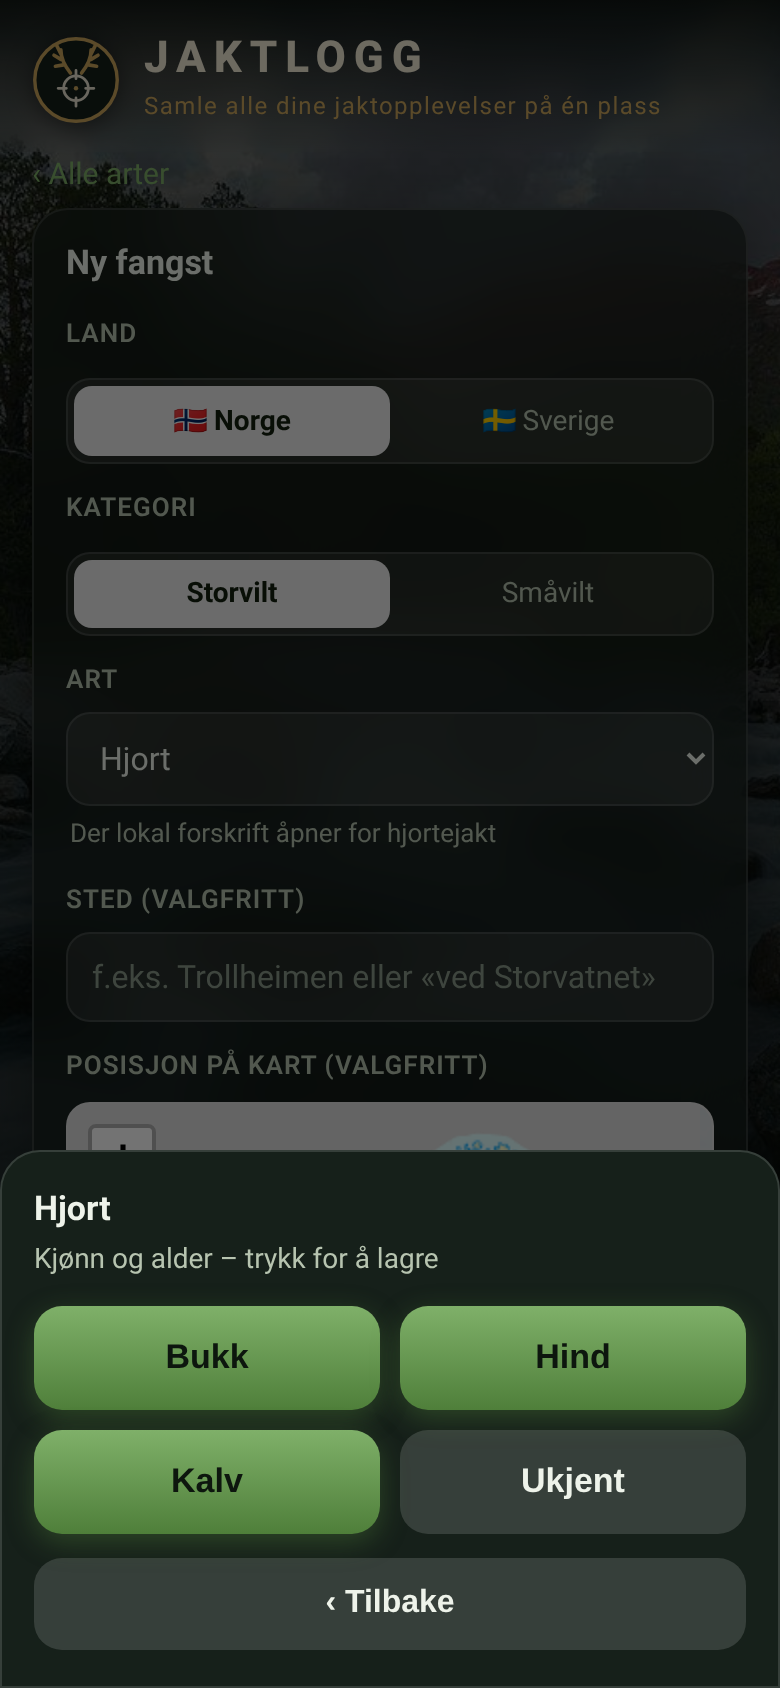
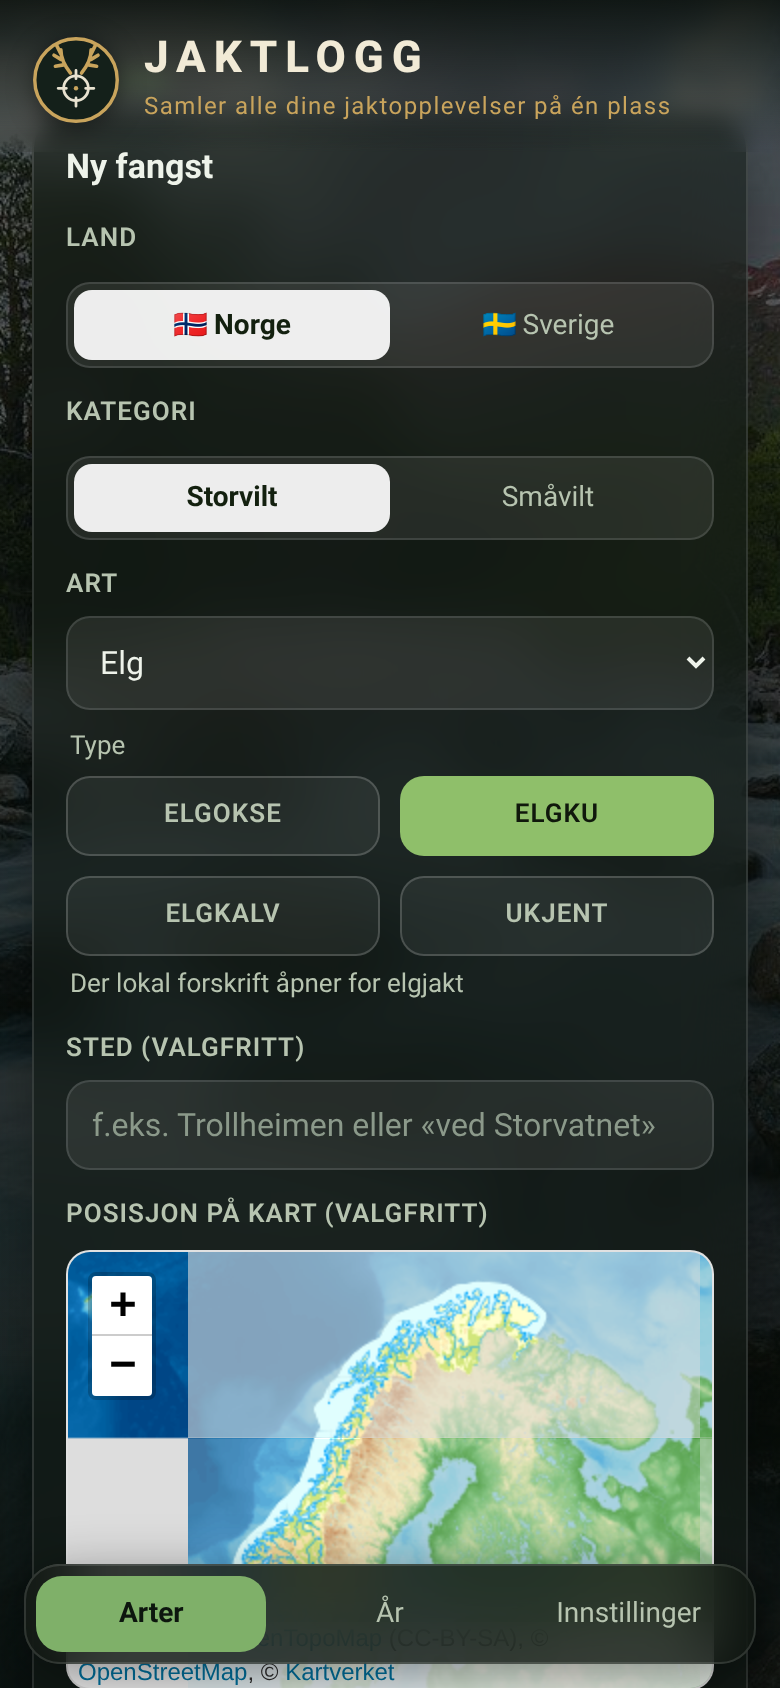
Type (kjønn/alder) vises rett under art i Ny fangst; tagline «Samler alle dine jaktopplevelser på én plass»

diff --git a/index.html b/index.html
@@ -64,8 +64,9 @@ input[type=file]{padding:10px}input[type=date]{color-scheme:dark}
 .brand h1{font-size:22px;font-weight:800;letter-spacing:.18em;line-height:1.1;color:#f1ead6}.brand .sub{font-size:12px;letter-spacing:.06em;color:#c9a45c;margin-top:3px}
 .sharebox{margin-top:14px;padding-top:12px;border-top:1px solid rgba(255,255,255,.1)}.sharebox ul{list-style:none;padding:0;margin:8px 0}.sharebox li{display:flex;justify-content:space-between;align-items:center;gap:8px;margin:6px 0;font-size:14px;color:var(--m)}
 .fugrow .fe img{width:44px;height:44px;border-radius:10px;object-fit:cover;display:block}
+.klab{font-size:13px;color:var(--m);margin:10px 2px 4px}.kopt{display:block;margin:0}.kopt input{position:absolute;opacity:0}.kopt span{display:block;text-align:center;padding:10px 6px;border-radius:12px;border:1px solid rgba(255,255,255,.18);background:rgba(255,255,255,.06);font-weight:600;cursor:pointer}.kopt input:checked+span{background:var(--a,#8fbf6a);color:#10180c;border-color:transparent}
 </style></head><body><div class="app">
-<header><div class="brand"><img src="assets/logo.svg" alt="" width="44" height="44"><div><h1>JAKTLOGG</h1><div class="sub">Samle alle dine jaktopplevelser på én plass</div></div></div><span id="hsub" hidden></span></header>
+<header><div class="brand"><img src="assets/logo.svg" alt="" width="44" height="44"><div><h1>JAKTLOGG</h1><div class="sub">Samler alle dine jaktopplevelser på én plass</div></div></div><span id="hsub" hidden></span></header>
 <main id="view"></main>
 <p class="credit"><a href="#" id="cr">Bildekreditter</a> · Bakgrunn: «River in the heart of Trollheimen mountains», Jakub Fryš, <a href="https://commons.wikimedia.org/wiki/File:River_in_the_heart_of_Trollheimen_mountains.jpg">Wikimedia Commons</a>, <a href="https://creativecommons.org/licenses/by-sa/4.0/">CC BY-SA 4.0</a></p>
 <nav class="tabs"><button id="t-arter" class="on">Arter</button><button id="t-ar">År</button><button id="t-inn">Innstillinger</button></nav>
@@ -153,9 +154,9 @@ async function renderSpecies(sp){const known=new Set(G().flatMap(g=>g[1].map(x=>
 
 // Kjønn/alder-klasser (sett-og-skutt-stil). Arter uten oppføring (småvilt/fugl m.m.) hopper over steget.
 const cleanNote=t=>(t||'').split(/\.\s*/).filter(p=>p&&!/fremmed|främmande|bilaga|introdusert|lisens|licens|kvot|skyddsjakt/i.test(p)).join('. ').trim();
-const KLASSER={Elg:['Okse','Ku','Kalv'],Hjort:['Bukk','Hind','Kalv'],Rådyr:['Bukk','Geit','Kje'],Villrein:['Bukk','Simle','Kalv'],Villsvin:['Galt','Purke','Unge'],
+const KLASSER={Elg:['Elgokse','Elgku','Elgkalv'],Hjort:['Bukk','Hind','Kalv'],Rådyr:['Bukk','Geit','Kje'],Villrein:['Bukk','Simle','Kalv'],Villsvin:['Galt','Purke','Unge'],
  Dåhjort:['Bukk','Hind','Kalv'],Muflon:['Vær','Søye','Lam'],Bjørn:['Hann','Binne','Unge'],Ulv:['Hann','Hunn','Valp'],Jerv:['Hann','Hunn','Unge'],Gaupe:['Hann','Hunn','Unge'],
- Älg:['Tjur','Ko','Kalv'],Kronhjort:['Hjort','Hind','Kalv'],Dovhjort:['Hjort','Hind','Kalv'],Rådjur:['Bock','Get','Kid'],Vildsvin:['Galt','Sugga','Kulting'],Mufflonfår:['Bagge','Tacka','Lamm'],
+ Älg:['Älgtjur','Älgko','Älgkalv'],Kronhjort:['Hjort','Hind','Kalv'],Dovhjort:['Hjort','Hind','Kalv'],Rådjur:['Bock','Get','Kid'],Vildsvin:['Galt','Sugga','Kulting'],Mufflonfår:['Bagge','Tacka','Lamm'],
  Björn:['Hane','Hona','Unge'],Varg:['Hane','Hona','Valp'],Lo:['Hane','Hona','Unge'],Järv:['Hane','Hona','Unge']};
 const ukjent=c=>c==='SE'?'Okänt':'Ukjent';
 const kl=x=>x.klasse?` · ${esc(x.klasse)}`:'';
@@ -172,7 +173,7 @@ function renderForm(sp){pending=[];let fl=land;const back=sp?()=>renderSpecies(s
  $('view').innerHTML=`<button class="back" id="bk">‹ ${sp?esc(sp):'Alle arter'}</button><div class="panel"><h2 style="margin-top:0">Ny fangst</h2><form id="f">
  <label>Land</label>${landSeg('fl',fl)}
  <label>Kategori</label><div class="seg" id="fc">${['Storvilt','Småvilt'].map(c=>`<button type="button" data-c="${c}">${c}</button>`).join('')}</div>
- <label>Art<select id="fsp" required></select></label><p id="finfo" style="font-size:13px;color:var(--m);margin:6px 2px 0"></p>
+ <label>Art<select id="fsp" required></select></label><div id="kwrap"></div><p id="finfo" style="font-size:13px;color:var(--m);margin:6px 2px 0"></p>
  <label id="otherL" style="display:none">Hvilken art?<input id="other" placeholder="Skriv art"></label>
  <label>Sted (valgfritt)<input id="sted" placeholder="f.eks. Trollheimen eller «ved Storvatnet»"></label>
  <label>Posisjon på kart (valgfritt)</label><div class="map" id="fmap"></div>
@@ -186,7 +187,7 @@ function renderForm(sp){pending=[];let fl=land;const back=sp?()=>renderSpecies(s
   const list=G(fl).find(g=>g[0]===fc)[1];const opt=x=>`<option value="${esc(x[0])}">${esc(x[0])}</option>`,fb=list.filter(x=>isBird(x[0]));
   $('fsp').innerHTML=list.filter(x=>!isBird(x[0])&&!isOther(x[0])).map(opt).join('')+(fb.length?`<optgroup label="🐦 Fugler">${fb.map(opt).join('')}</optgroup>`:'')+list.filter(x=>isOther(x[0])).map(opt).join('');
   if(keep&&list.some(x=>x[0]===keep))$('fsp').value=keep;spInfo()};
- const spInfo=()=>{const it=ITEM(fl,$('fsp').value)||[];$('otherL').style.display=isOther(it[0])?'':'none';$('other').required=isOther(it[0]);
+ const spInfo=()=>{const ko=KLASSER[$('fsp').value];$('kwrap').innerHTML=ko?`<div class="klab">Type</div><div class="kgrid" role="radiogroup">${[...ko,ukjent(fl)].map((k,i)=>`<label class="kopt"><input type="radio" name="kl" value="${esc(k)}"${i===ko.length?' checked':''}><span>${esc(k)}</span></label>`).join('')}</div>`:'';const it=ITEM(fl,$('fsp').value)||[];$('otherL').style.display=isOther(it[0])?'':'none';$('other').required=isOther(it[0]);
   $('finfo').innerHTML=(it[4]&&it[4]!=='Fremmed art'?'⚠ Kun etter vedtak (lisens/kvote/skyddsjakt). ':'')+esc(it[3]||'')};
  document.querySelectorAll('#fl button').forEach(b=>b.onclick=()=>{const cur=$('fsp').value;fl=b.dataset.l;fillSp(cur);fm.fitBounds(LAND[fl].bounds)});
  document.querySelectorAll('#fc button').forEach(b=>b.onclick=()=>{fc=b.dataset.c;fillSp()});$('fsp').onchange=spInfo;
@@ -204,7 +205,7 @@ function renderForm(sp){pending=[];let fl=land;const back=sp?()=>renderSpecies(s
   $('th').querySelectorAll('button').forEach(b=>b.onclick=()=>{pending.splice(+b.dataset.i,1);th()})};
  $('photos').onchange=async e=>{for(const f of e.target.files)pending.push(await shrink(f));e.target.value='';th()};
  $('f').onsubmit=async ev=>{ev.preventDefault();const pick=$('fsp').value,species=isOther(pick)?$('other').value.trim():pick;if(!species)return;
-  const klasse=await pickKlasse(pick,fl);if(klasse===null)return; // Tilbake: ingenting lagres
+  const kr=document.querySelector('#kwrap input[name=kl]:checked');const klasse=kr&&KLASSER[pick]?kr.value:undefined;
   try{await Store.add({id:Date.now().toString(36)+Math.random().toString(36).slice(2,6),species,country:fl,...(klasse?{klasse}:{}),datetime:$('dt').value,sted:$('sted').value.trim(),notes:$('notes').value.trim(),photos:pending,...(ll?{lat:ll.lat,lng:ll.lng}:{})})}
   catch(err){alert('Kunne ikke lagre: '+(err&&err.message||'lagringsplassen kan være full.'));return}
   setLand(fl);renderSpecies(pick)};scrollTo(0,0)}

diff --git a/README.md b/README.md
@@ -117,7 +117,7 @@ Alle fra Wikimedia Commons, beskåret til kvadrat og komprimert (endret).
 
 ## Nytt: kjønn/alder, deling, logo
 
-**Kjønn/alder:** Etter «Lagre» i «Ny fangst» kommer et valgark for storvilt (ett trykk velger og lagrer, «Tilbake» avbryter). Vises på kort, detaljside og i År-oversikten. Elg: Okse/Ku/Kalv · Hjort/Dåhjort: Bukk/Hind/Kalv · Rådyr: Bukk/Geit/Kje · Villrein: Bukk/Simle/Kalv · Villsvin: Galt/Purke/Unge · Muflon: Vær/Søye/Lam · Bjørn: Hann/Binne/Unge · Ulv: Hann/Hunn/Valp · Jerv/Gaupe: Hann/Hunn/Unge. Sverige: Älg: Tjur/Ko/Kalv · Kronhjort/Dovhjort: Hjort/Hind/Kalv · Rådjur: Bock/Get/Kid · Vildsvin: Galt/Sugga/Kulting · Mufflonfår: Bagge/Tacka/Lamm · Björn/Lo/Järv: Hane/Hona/Unge · Varg: Hane/Hona/Valp. Alle har også Ukjent/Okänt. Småvilt/fugl får ikke valgarket.
+**Kjønn/alder:** I «Ny fangst» vises feltet «Type» rett under art-valget så snart en art med kjønn/alder er valgt (standard: Ukjent). Vises på kort, detaljside og i År-oversikten. Elg: Elgokse/Elgku/Elgkalv · Hjort/Dåhjort: Bukk/Hind/Kalv · Rådyr: Bukk/Geit/Kje · Villrein: Bukk/Simle/Kalv · Villsvin: Galt/Purke/Unge · Muflon: Vær/Søye/Lam · Bjørn: Hann/Binne/Unge · Ulv: Hann/Hunn/Valp · Jerv/Gaupe: Hann/Hunn/Unge. Sverige: Älg: Älgtjur/Älgko/Älgkalv · Kronhjort/Dovhjort: Hjort/Hind/Kalv · Rådjur: Bock/Get/Kid · Vildsvin: Galt/Sugga/Kulting · Mufflonfår: Bagge/Tacka/Lamm · Björn/Lo/Järv: Hane/Hona/Unge · Varg: Hane/Hona/Valp. Alle har også Ukjent/Okänt. Småvilt/fugl får ikke feltet.
 
 ![Kjønn/alder](docs/screenshots/21-kjonn-alder-valg.png)
 
